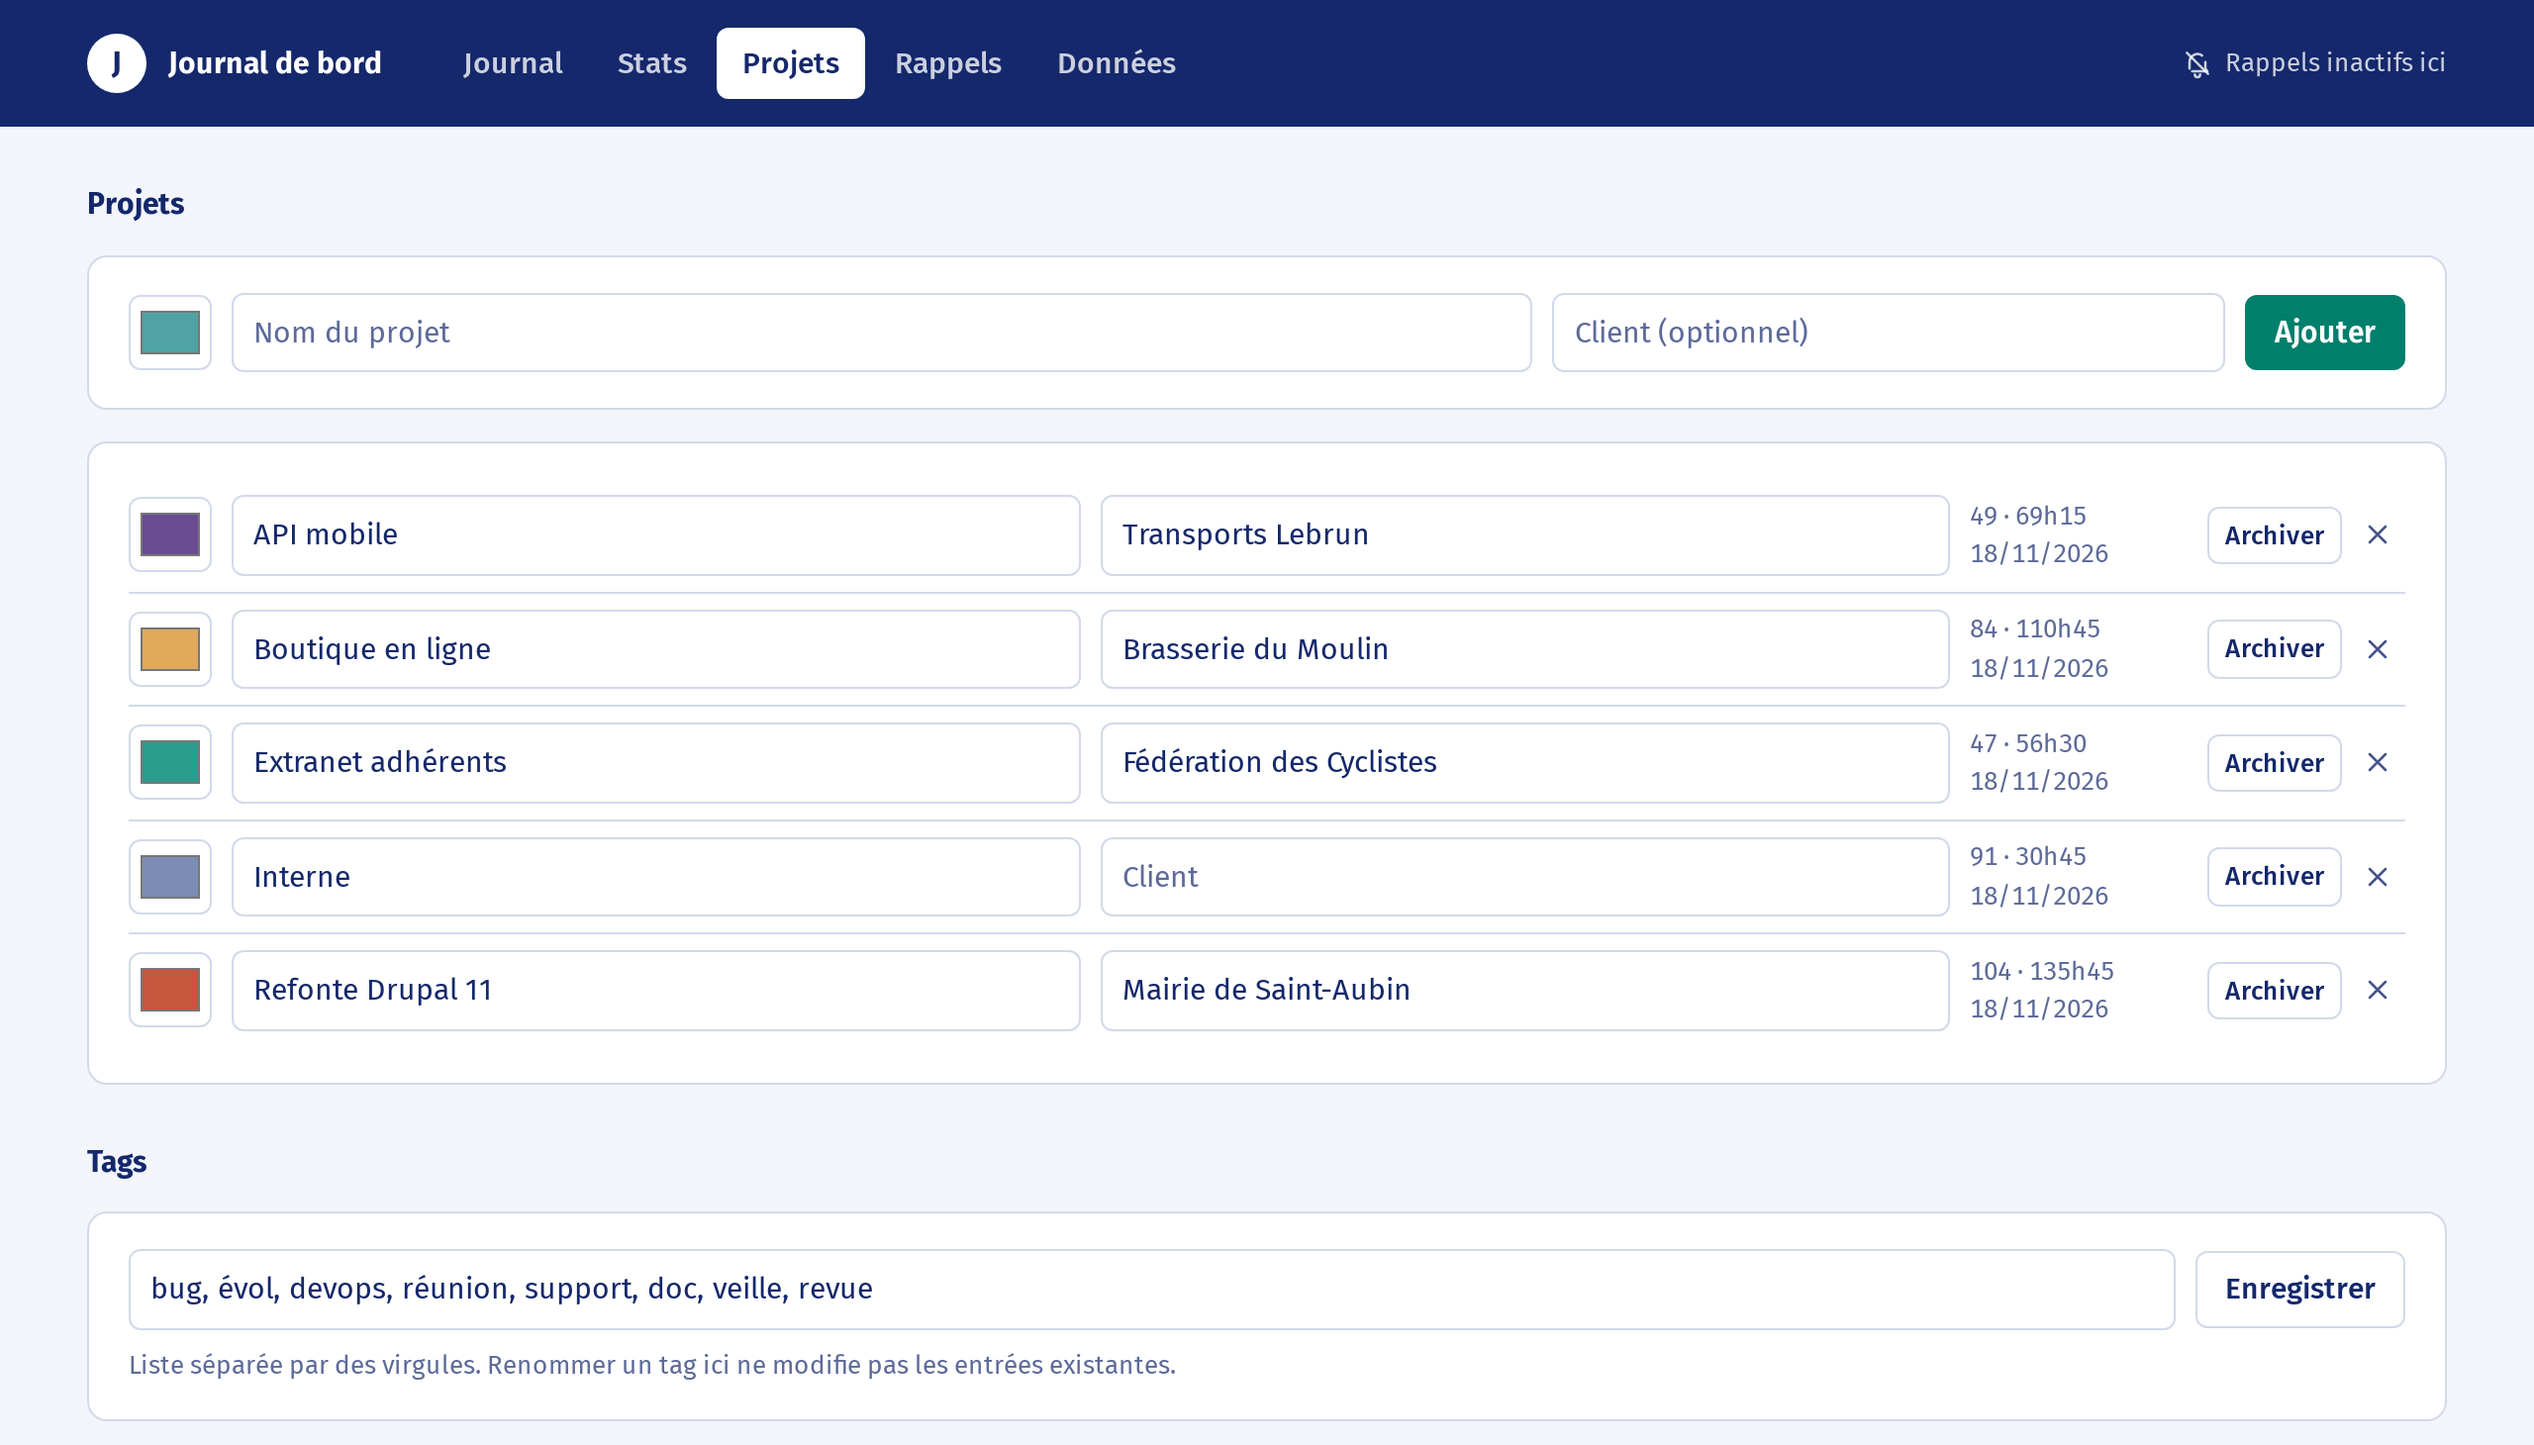
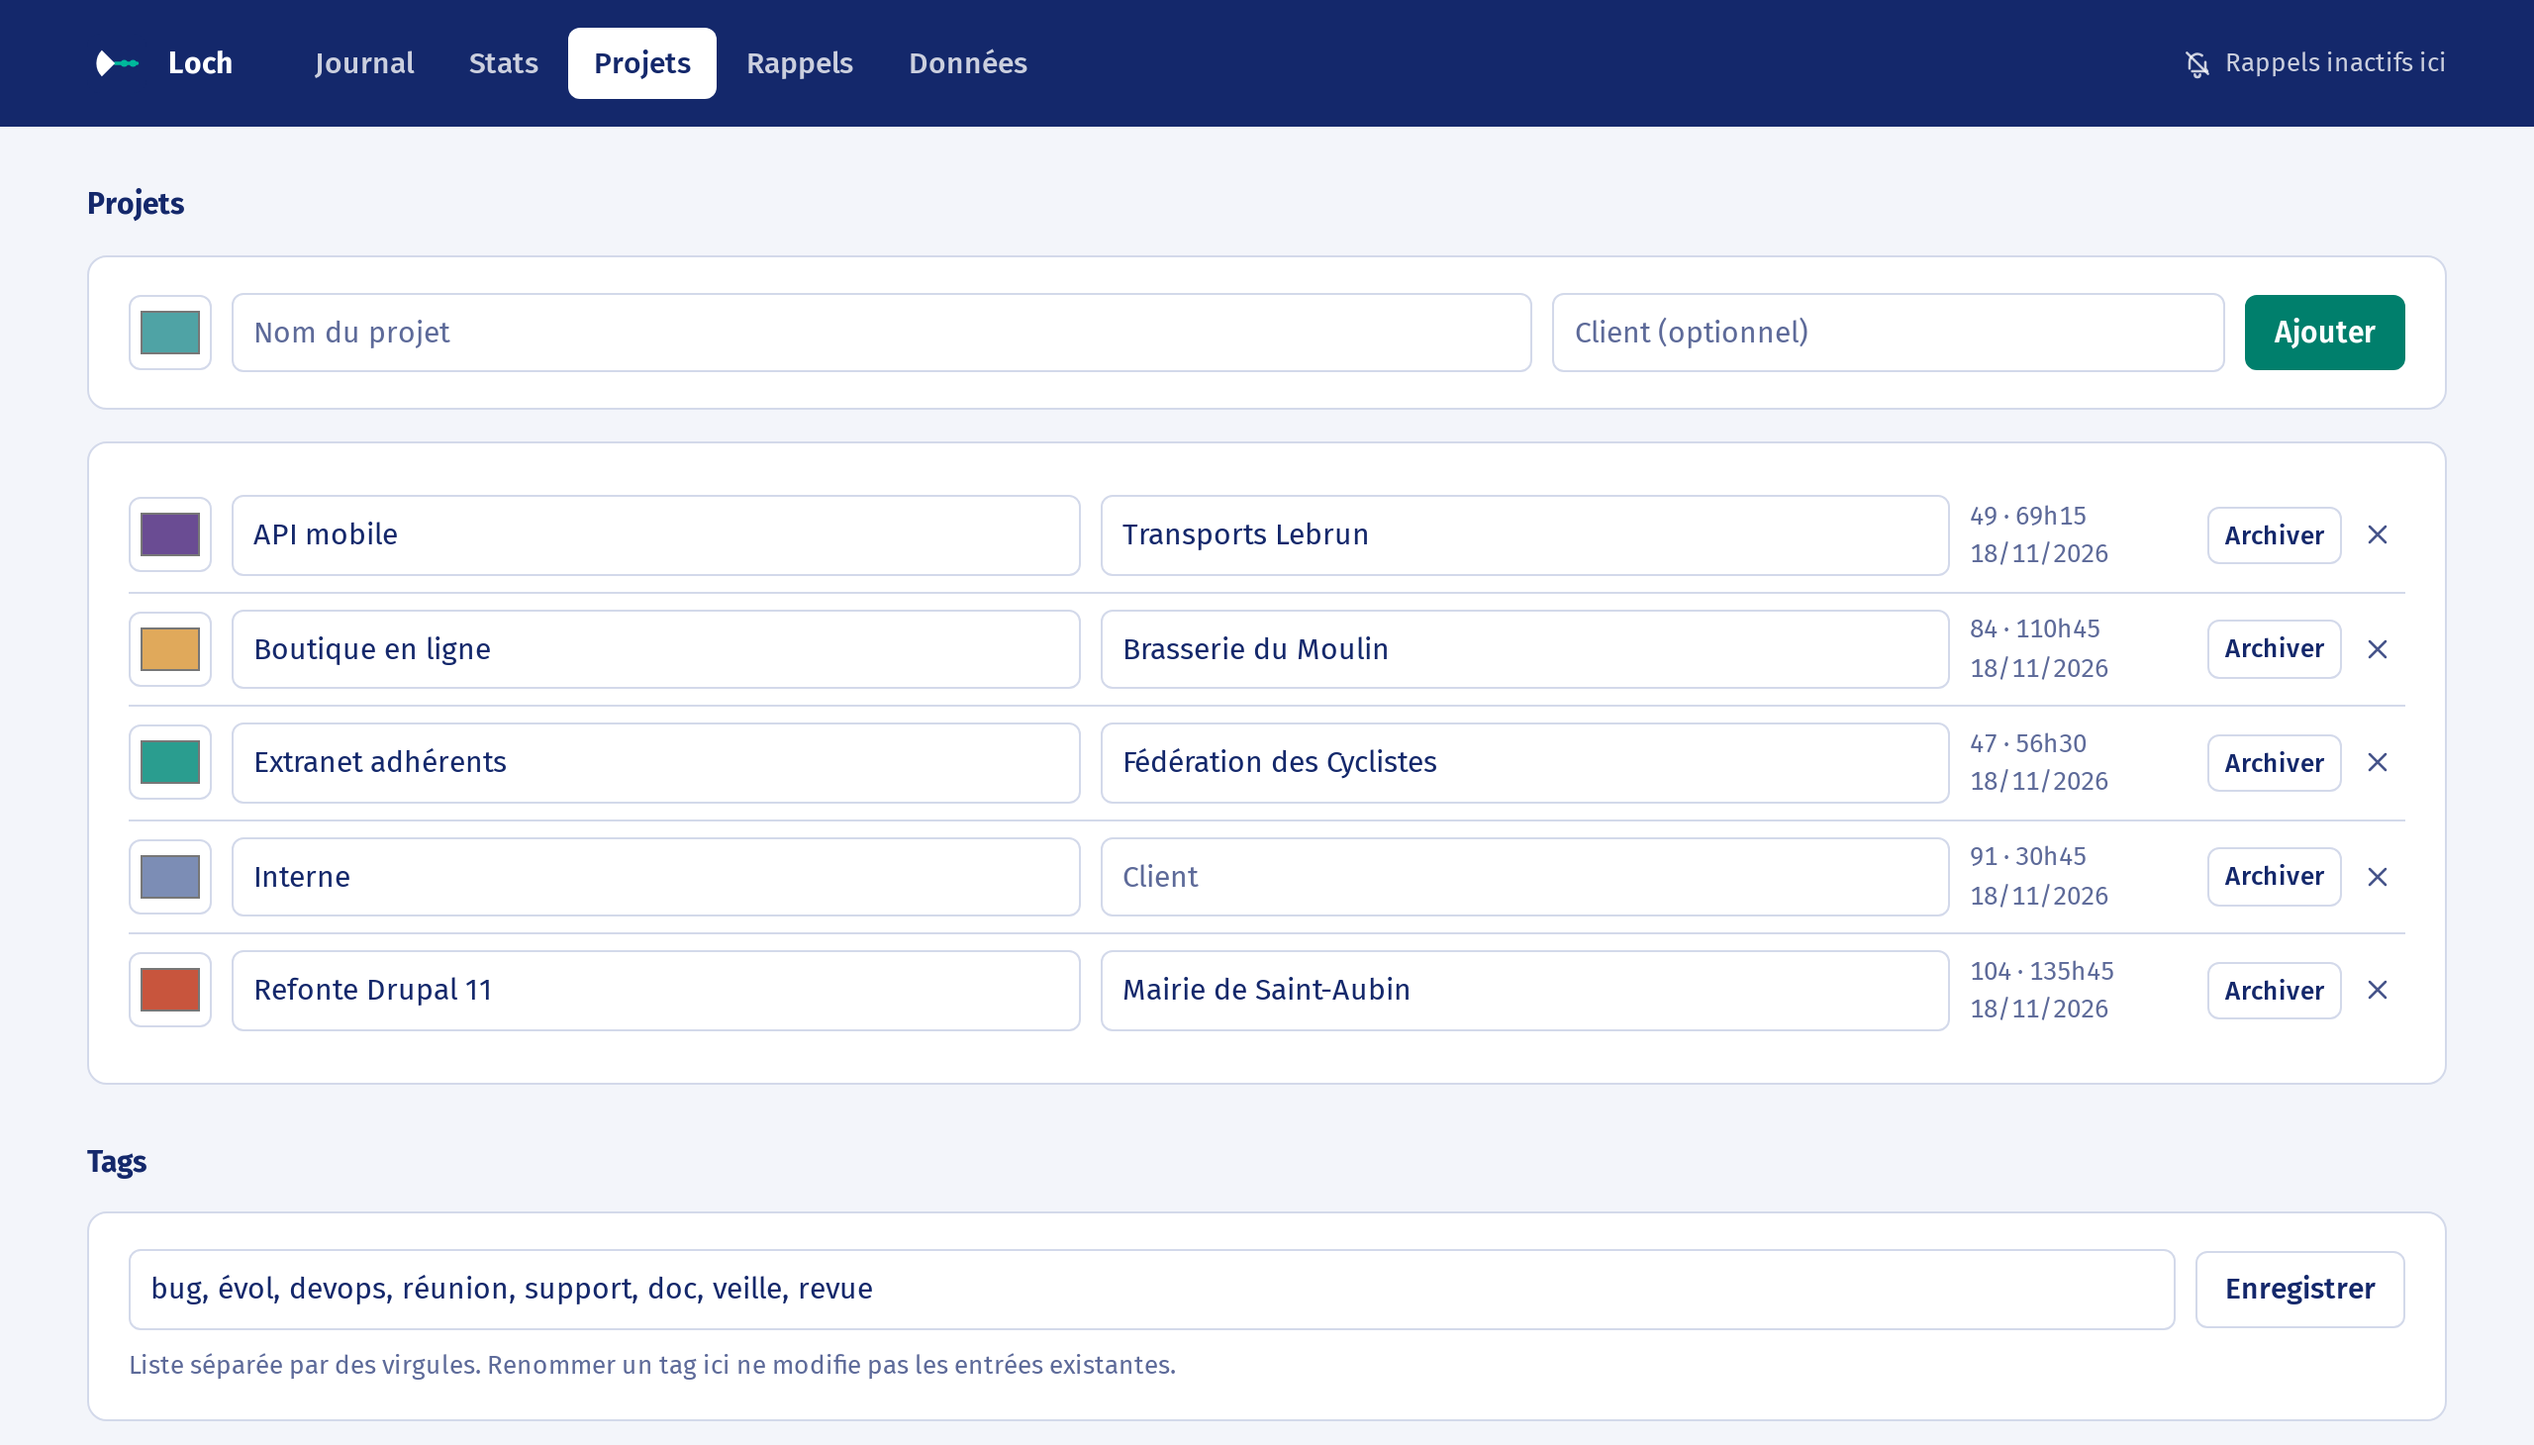
Nouveau nom : Loch, avec une icône (le loch à bateau et sa ligne à nœuds)

Changed region(s): [[0.0312, 0.0, 0.4688, 0.0925]]

diff --git a/index.html b/index.html
@@ -3,7 +3,7 @@
 <head>
 <meta charset="UTF-8">
 <meta name="viewport" content="width=device-width, initial-scale=1">
-<title>Journal de bord</title>
+<title>Loch</title>
 <link rel="icon" href="icon.svg" type="image/svg+xml">
 <link rel="preconnect" href="https://fonts.googleapis.com">
 <link href="https://fonts.googleapis.com/css2?family=Fira+Sans:wght@400;500;600;700&family=Fira+Mono:wght@400;500&display=swap" rel="stylesheet">
@@ -35,8 +35,7 @@ button,input,select,textarea{font:inherit;color:inherit}
 header{position:sticky;top:0;z-index:20;background:var(--shell);color:var(--shell-txt)}
 .hwrap{max-width:1240px;margin:0 auto;padding:0 24px;min-height:64px;display:flex;align-items:center;gap:28px;flex-wrap:wrap}
 .brand{display:flex;align-items:center;gap:11px;font-weight:700;font-size:15px}
-.roundel{width:30px;height:30px;border-radius:50%;display:grid;place-items:center;font-size:15px;font-weight:700;background:var(--shell);color:var(--shell-txt);flex-shrink:0}
-header .roundel{background:var(--shell-txt);color:var(--shell)}
+.logo{width:30px;height:30px;flex-shrink:0}
 nav{display:flex;gap:2px;flex-wrap:wrap;flex:1}
 nav button{background:none;border:0;padding:7px 13px;border-radius:6px;color:var(--shell-txt2);cursor:pointer;font-weight:500}
 nav button:hover{color:var(--shell-txt);background:var(--shell-line)}
@@ -298,7 +297,7 @@ input[type=number]{width:90px}
 
 <div id="login">
   <form class="card grid" id="loginForm">
-    <div class="brand"><span class="roundel" aria-hidden="true">J</span>Journal de bord</div>
+    <div class="brand"><img class="logo" src="icon.svg" alt="">Loch</div>
     <label class="f">Mot de passe<input type="password" id="loginPw" autocomplete="current-password" required></label>
     <button class="btn primary" type="submit">Se connecter</button>
     <div class="err" id="loginErr"></div>
@@ -307,7 +306,7 @@ input[type=number]{width:90px}
 
 <header>
   <div class="hwrap">
-    <div class="brand"><span class="roundel" aria-hidden="true">J</span>Journal de bord</div>
+    <div class="brand"><img class="logo" src="icon.svg" alt="">Loch</div>
     <nav id="nav">
       <button data-view="journal" class="active">Journal</button>
       <button data-view="stats">Stats</button>

diff --git a/sw.js b/sw.js
@@ -1,4 +1,4 @@
-/* Journal de bord - service worker : réception des Web Push et clic sur les notifications */
+/* Loch - service worker : réception des Web Push et clic sur les notifications */
 self.addEventListener('install', () => self.skipWaiting());
 self.addEventListener('activate', e => e.waitUntil(self.clients.claim()));
 
@@ -6,7 +6,7 @@ self.addEventListener('push', e => {
   let d = {};
   try { d = e.data ? e.data.json() : {}; } catch (err) { d = { body: e.data ? e.data.text() : '' }; }
   const scope = self.registration.scope;
-  e.waitUntil(self.registration.showNotification(d.title || 'Journal de bord', {
+  e.waitUntil(self.registration.showNotification(d.title || 'Loch', {
     body: d.body || 'Pense à remplir ton journal.',
     icon: new URL('icon.svg', scope).href,
     badge: new URL('icon.svg', scope).href,

diff --git a/cron.php b/cron.php
@@ -1,6 +1,6 @@
 <?php
 /**
- * Journal de bord - envoi des rappels par Web Push.
+ * Loch - envoi des rappels par Web Push.
  * À lancer chaque minute :  * * * * * php /chemin/journal/cron.php
  *
  * Options : --test  envoie immédiatement une notification de test à tous les appareils
@@ -24,7 +24,7 @@ try {
 
     if (in_array('--test', $argv, true)) {
         $st = today_status();
-        $r = push_send(['title' => 'Journal de bord', 'body' => "Test depuis le cron.\n" . $st['line'], 'tag' => 'jdb-test']);
+        $r = push_send(['title' => 'Loch', 'body' => "Test depuis le cron.\n" . $st['line'], 'tag' => 'jdb-test']);
         echo json_encode($r, JSON_UNESCAPED_UNICODE | JSON_PRETTY_PRINT), "\n";
         exit($r['errors'] ? 1 : 0);
     }
@@ -61,7 +61,7 @@ try {
 
     $it = end($due);
     $res = push_send([
-        'title' => 'Journal de bord',
+        'title' => 'Loch',
         'body' => trim(($it['message'] ?: 'Pense à remplir ton journal.') . "\n" . $status['line']),
         'tag' => 'jdb-reminder',
         'url' => './#journal',

diff --git a/api.php b/api.php
@@ -1,6 +1,6 @@
 <?php
 /**
- * Journal de bord - API JSON (PHP 8.1+, PDO SQLite)
+ * Loch - API JSON (PHP 8.1+, PDO SQLite)
  */
 declare(strict_types=1);
 
@@ -291,7 +291,7 @@ try {
         case 'push_test':
             $st = today_status();
             $ep = (string)(input()['endpoint'] ?? '');
-            $r = push_send(['title' => 'Journal de bord', 'body' => "Ceci est un test.\n" . $st['line'], 'tag' => 'jdb-test', 'url' => './#journal'], $ep ?: null);
+            $r = push_send(['title' => 'Loch', 'body' => "Ceci est un test.\n" . $st['line'], 'tag' => 'jdb-test', 'url' => './#journal'], $ep ?: null);
             if (!$r['devices']) fail('Aucun appareil abonné' . ($ep ? ' pour ce navigateur' : ''));
             out($r);
 

diff --git a/inc.php b/inc.php
@@ -1,6 +1,6 @@
 <?php
 /**
- * Journal de bord - socle commun (API + cron) : config, base SQLite, réglages, Web Push.
+ * Loch - socle commun (API + cron) : config, base SQLite, réglages, Web Push.
  */
 declare(strict_types=1);
 

diff --git a/config.example.php b/config.example.php
@@ -1,6 +1,6 @@
 <?php
 /**
- * Configuration du Journal de bord.
+ * Configuration de Loch.
  *
  * Générer le hash du mot de passe :
  *   php -r "echo password_hash('mon-mot-de-passe', PASSWORD_DEFAULT), PHP_EOL;"

diff --git a/README.md b/README.md
@@ -1,6 +1,8 @@
-# Journal de bord
+# Loch
 
-Journal de bord pour développeur, auto-hébergé : tu notes en quelques secondes ce que tu viens de
+**Le journal de bord du développeur : note ta route, relis ton sillage.**
+
+Auto-hébergé : tu notes en quelques secondes ce que tu viens de
 faire, tu relis ta veille le matin et tu vois où part ton temps, projet par projet.
 
 PHP 8.1+ et SQLite, sans Composer, sans build, sans framework JS : une page `index.html`,
@@ -35,7 +37,7 @@ Les données affichées sont fictives.
 ## Essayer en local
 
 ```bash
-git clone https://github.com/Haza/journal.git && cd journal
+git clone https://github.com/Haza/loch.git && cd loch
 cp config.example.php config.php
 php -r "echo password_hash('mon-mot-de-passe', PASSWORD_DEFAULT), PHP_EOL;"
 # coller le hash dans 'password_hash' de config.php
@@ -64,7 +66,7 @@ Extensions PHP nécessaires : `pdo_sqlite`, `openssl`, `curl`, `mbstring` (prés
 
 ## Installation sur un serveur
 
-1. Copier le dossier sur le serveur (ex : `/var/www/journal`).
+1. Copier le dossier sur le serveur (ex : `/var/www/loch`).
 2. Copier `config.example.php` en `config.php`, générer le hash du mot de passe et le coller dans `config.php` :
    ```bash
    php -r "echo password_hash('mon-mot-de-passe', PASSWORD_DEFAULT), PHP_EOL;"
@@ -79,7 +81,7 @@ Extensions PHP nécessaires : `pdo_sqlite`, `openssl`, `curl`, `mbstring` (prés
    sudo crontab -u www-data -e
    ```
    ```cron
-   * * * * * php /var/www/journal/cron.php
+   * * * * * php /var/www/loch/cron.php
    ```
 6. Servir en **HTTPS** (obligatoire pour le Web Push).
 7. Se connecter, onglet **Rappels** > « Recevoir les rappels ici », puis « Tester ».
@@ -91,10 +93,10 @@ Recommandé : mettre `db_path`, `backup_dir` et `session_dir` hors de la racine 
 Les `.htaccess` ne sont pas lus, ajouter :
 
 ```nginx
-location ~ ^/journal/(config|inc|cron)\.php$ { deny all; }
-location ~ ^/journal/(README\.md|PRODUCT\.md|LICENSE)$ { deny all; }
-location ^~ /journal/data/ { deny all; }
-location = /journal/sw.js { add_header Cache-Control "no-store"; }
+location ~ ^/loch/(config|inc|cron)\.php$ { deny all; }
+location ~ ^/loch/(README\.md|PRODUCT\.md|LICENSE)$ { deny all; }
+location ^~ /loch/data/ { deny all; }
+location = /loch/sw.js { add_header Cache-Control "no-store"; }
 ```
 
 ## Rappels (Web Push)
@@ -126,8 +128,8 @@ chaque appareil (fait aussi automatiquement au prochain chargement de la page).
 ### Tester depuis le serveur
 
 ```bash
-sudo -u www-data php /var/www/journal/cron.php --test   # envoie un push à tous les appareils
-sudo -u www-data php /var/www/journal/cron.php -v       # affiche ce que le cron décide
+sudo -u www-data php /var/www/loch/cron.php --test   # envoie un push à tous les appareils
+sudo -u www-data php /var/www/loch/cron.php -v       # affiche ce que le cron décide
 ```
 
 ### Dépannage

diff --git a/PRODUCT.md b/PRODUCT.md
@@ -10,7 +10,7 @@ web
 Un seul utilisateur : un développeur qui note ce qu'il fait plusieurs fois par jour entre deux tâches, puis relit la veille pour l'appel du matin et suit son temps par projet.
 
 ## Product Purpose
-Journal de bord dev auto-hébergé : saisir vite une entrée (date, projet, durée, titre, tags, détails markdown), la retrouver, relire la veille et en tirer des stats, et être relancé par des rappels Web Push quand rien n'a été noté.
+Loch : journal de bord dev auto-hébergé : saisir vite une entrée (date, projet, durée, titre, tags, détails markdown), la retrouver, relire la veille et en tirer des stats, et être relancé par des rappels Web Push quand rien n'a été noté.
 
 ## Operating Context
 Desktop, un onglet ouvert toute la journée à côté de l'IDE et du terminal. Rappels reçus par notification système. Le matin, la veille est relue à voix haute lors d'un court appel d'équipe.
